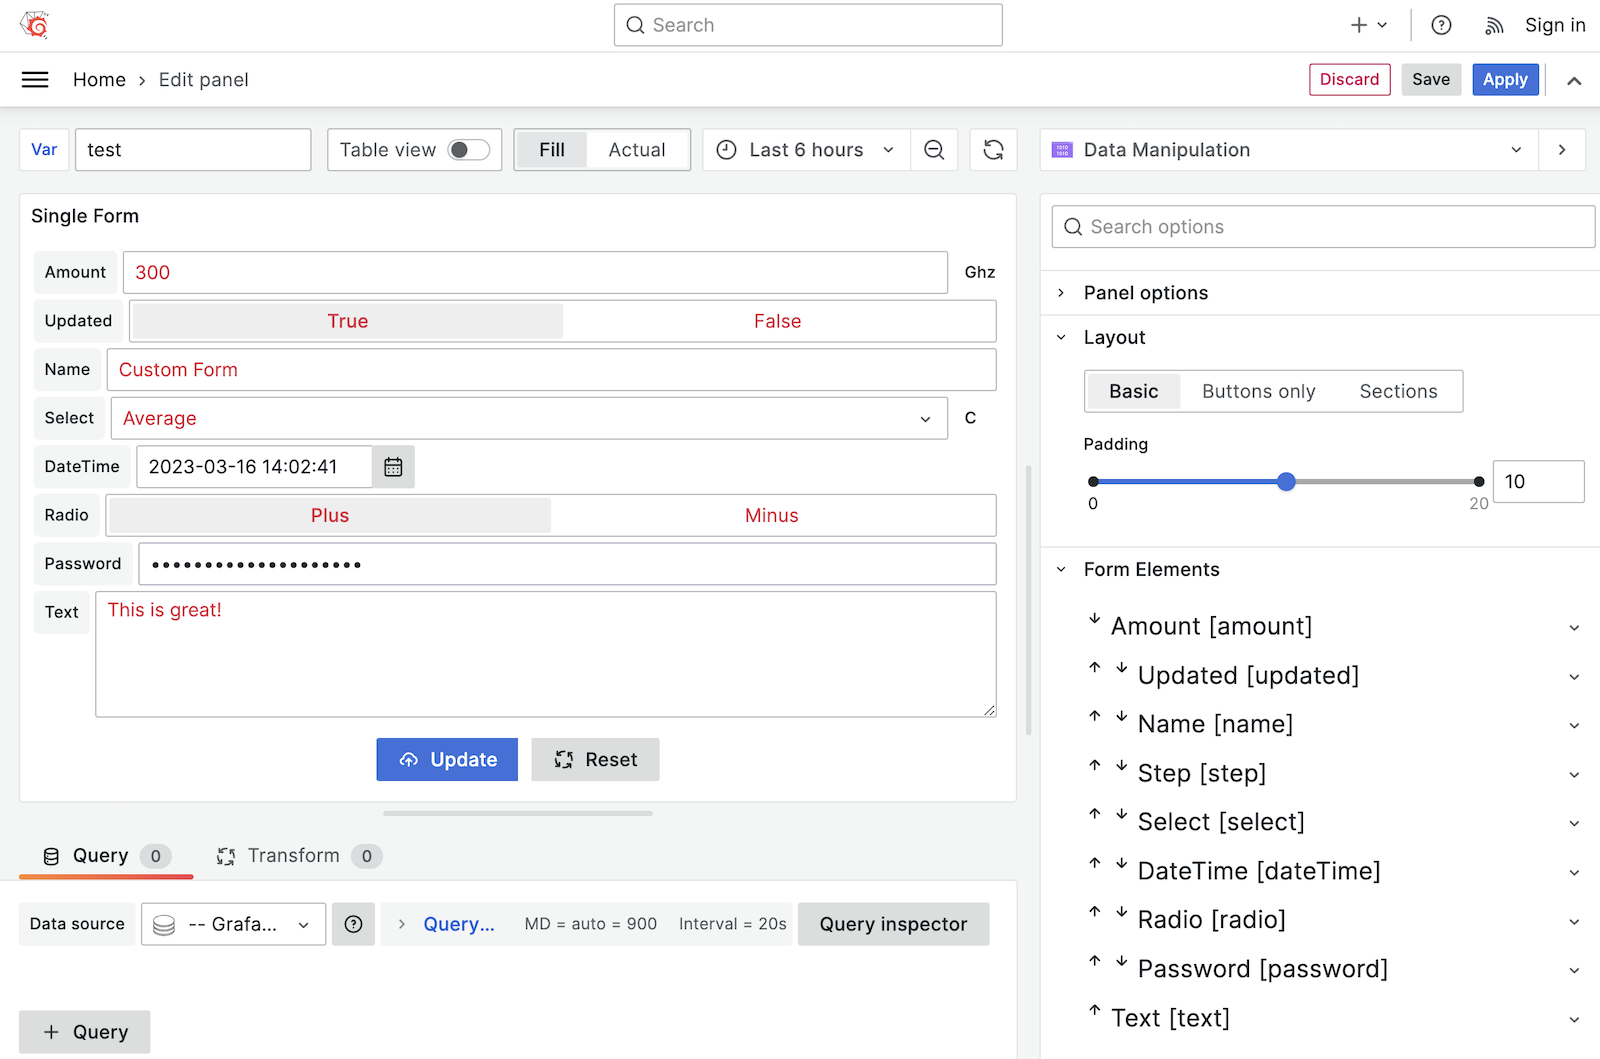
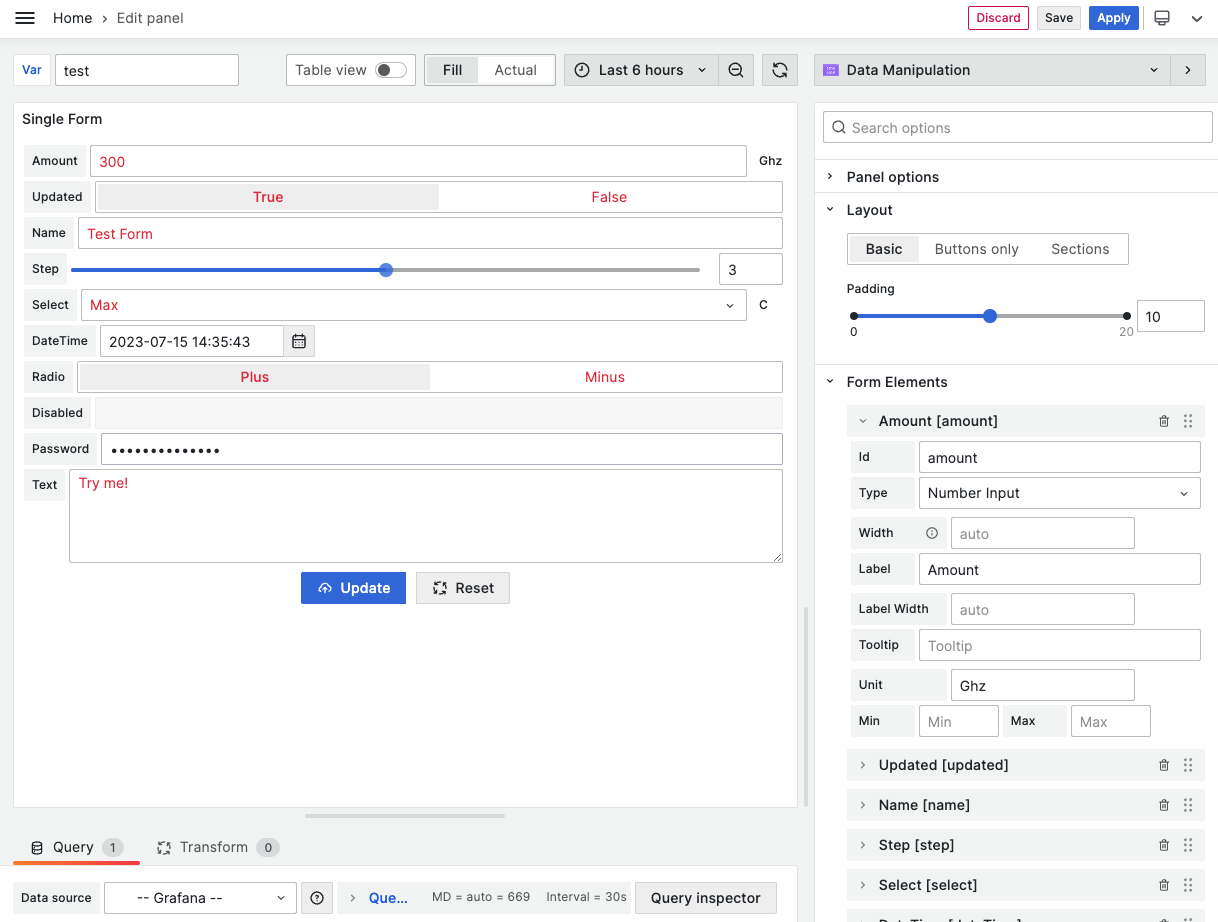
Update README and Sections panel options

diff --git a/src/module.ts b/src/module.ts
@@ -58,14 +58,6 @@ export const plugin = new PanelPlugin<PanelOptions>(FormPanel).setNoPadding().se
       },
       defaultValue: LayoutVariant.SINGLE,
     })
-    .addCustomEditor({
-      id: 'layout.sections',
-      path: 'layout.sections',
-      name: 'Sections',
-      category: ['Layout'],
-      editor: LayoutSectionsEditor,
-      showIf: (config: any) => config.layout.variant === LayoutVariant.SPLIT,
-    })
     .addSliderInput({
       path: 'layout.padding',
       name: 'Padding',
@@ -75,11 +67,24 @@ export const plugin = new PanelPlugin<PanelOptions>(FormPanel).setNoPadding().se
         min: 0,
         max: 20,
       },
+    });
+
+  /**
+   * Sections
+   */
+  builder
+    .addCustomEditor({
+      id: 'layout.sections',
+      path: 'layout.sections',
+      name: 'Sections',
+      category: ['Sections'],
+      editor: LayoutSectionsEditor,
+      showIf: (config: any) => config.layout.variant === LayoutVariant.SPLIT,
     })
     .addRadio({
       path: 'layout.orientation',
       name: 'Orientation',
-      category: ['Layout'],
+      category: ['Sections'],
       settings: {
         options: LayoutOrientationOptions,
       },

diff --git a/CHANGELOG.md b/CHANGELOG.md
@@ -1,12 +1,12 @@
 # Change Log
 
-## 3.0.0 (2023-07-14)
+## 3.0.0 (2023-07-15)
 
 ## Breaking changes
 
 - Requires Grafana 9 and Grafana 10.
 - Form Elements are kept in the local state and not saved in the dashboard by default.
-- Stated and Elements refactoring may introduce breaking changes. Please test before using panel in Production.
+- Local states and elements refactoring may introduce breaking changes. Please test before using in Production.
 
 ### Features / Enhancements
 
